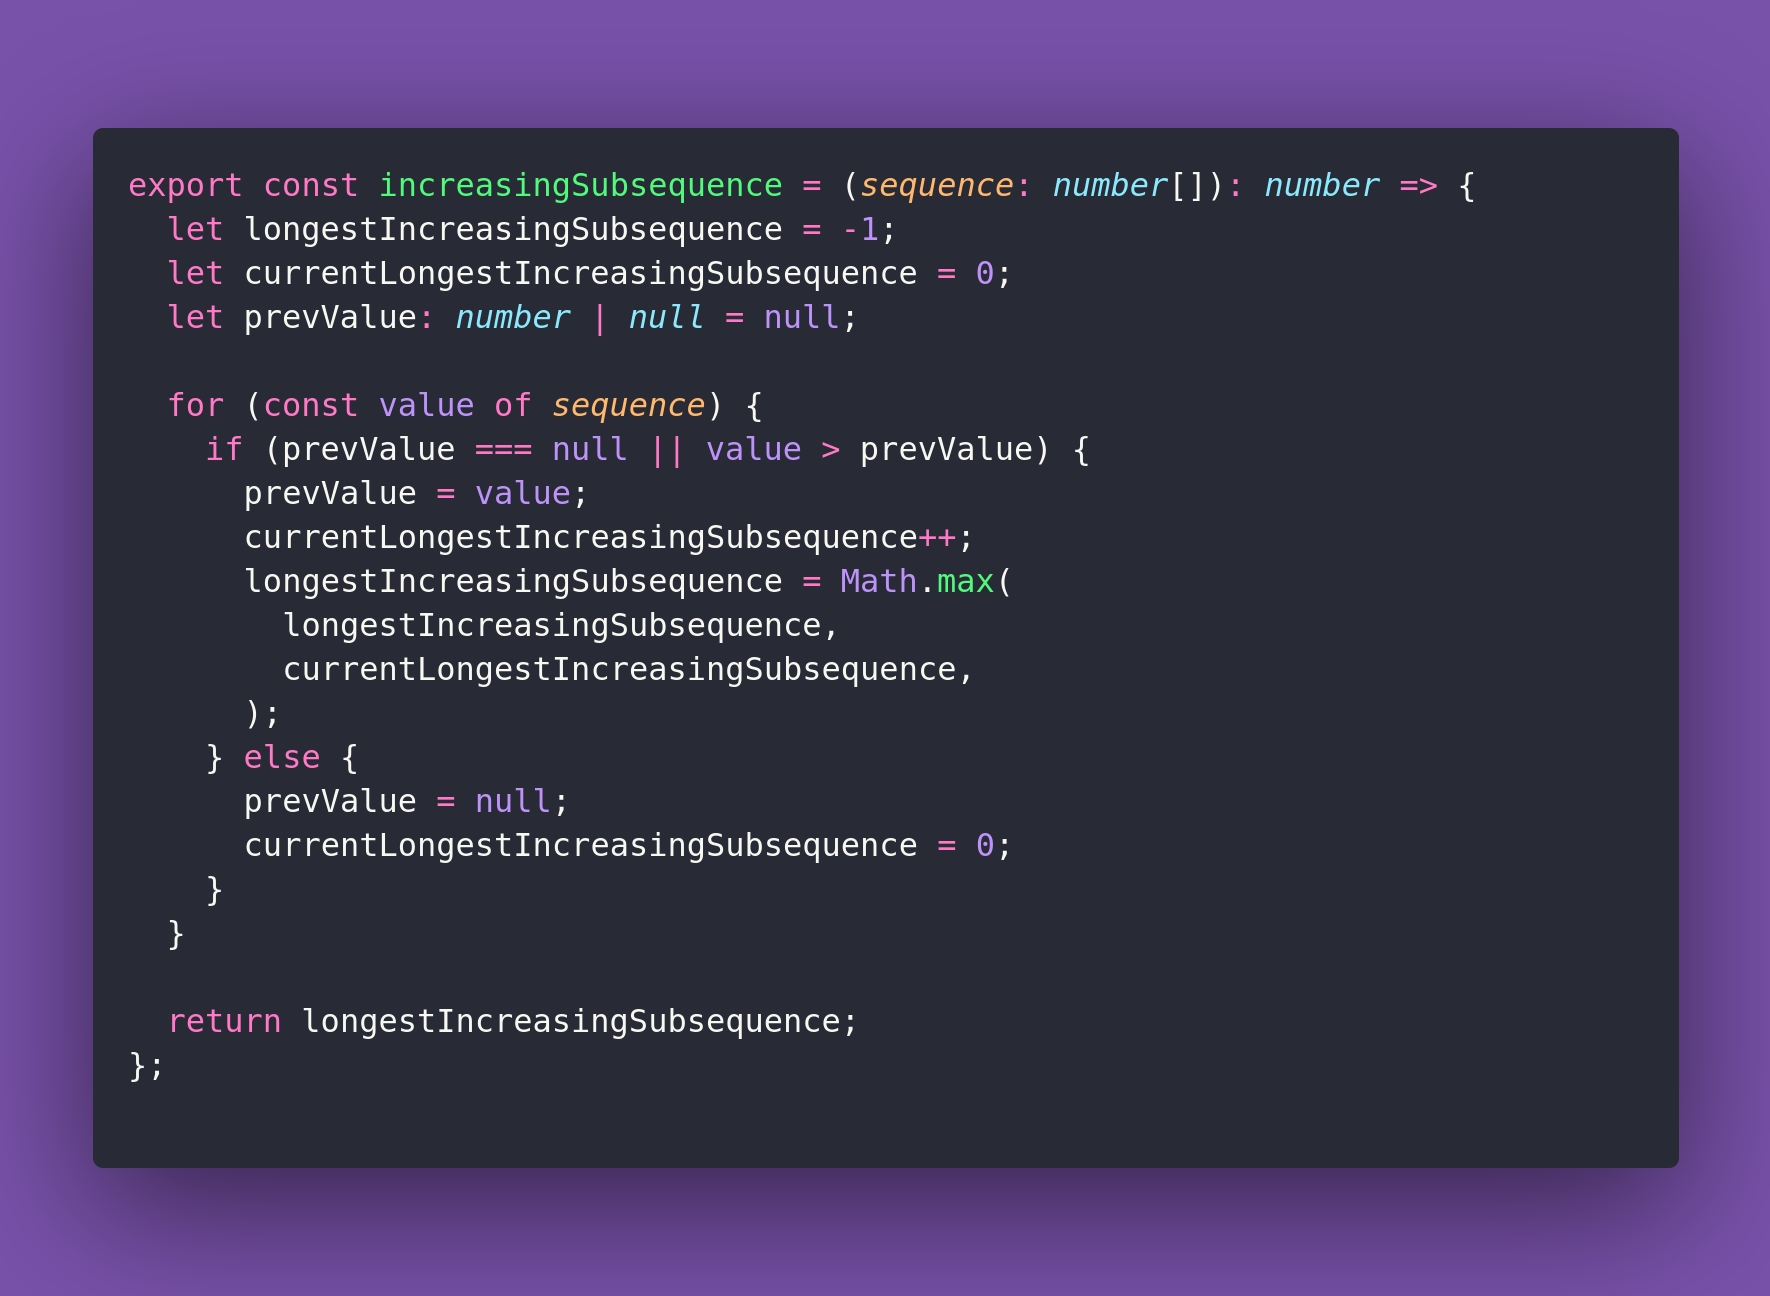
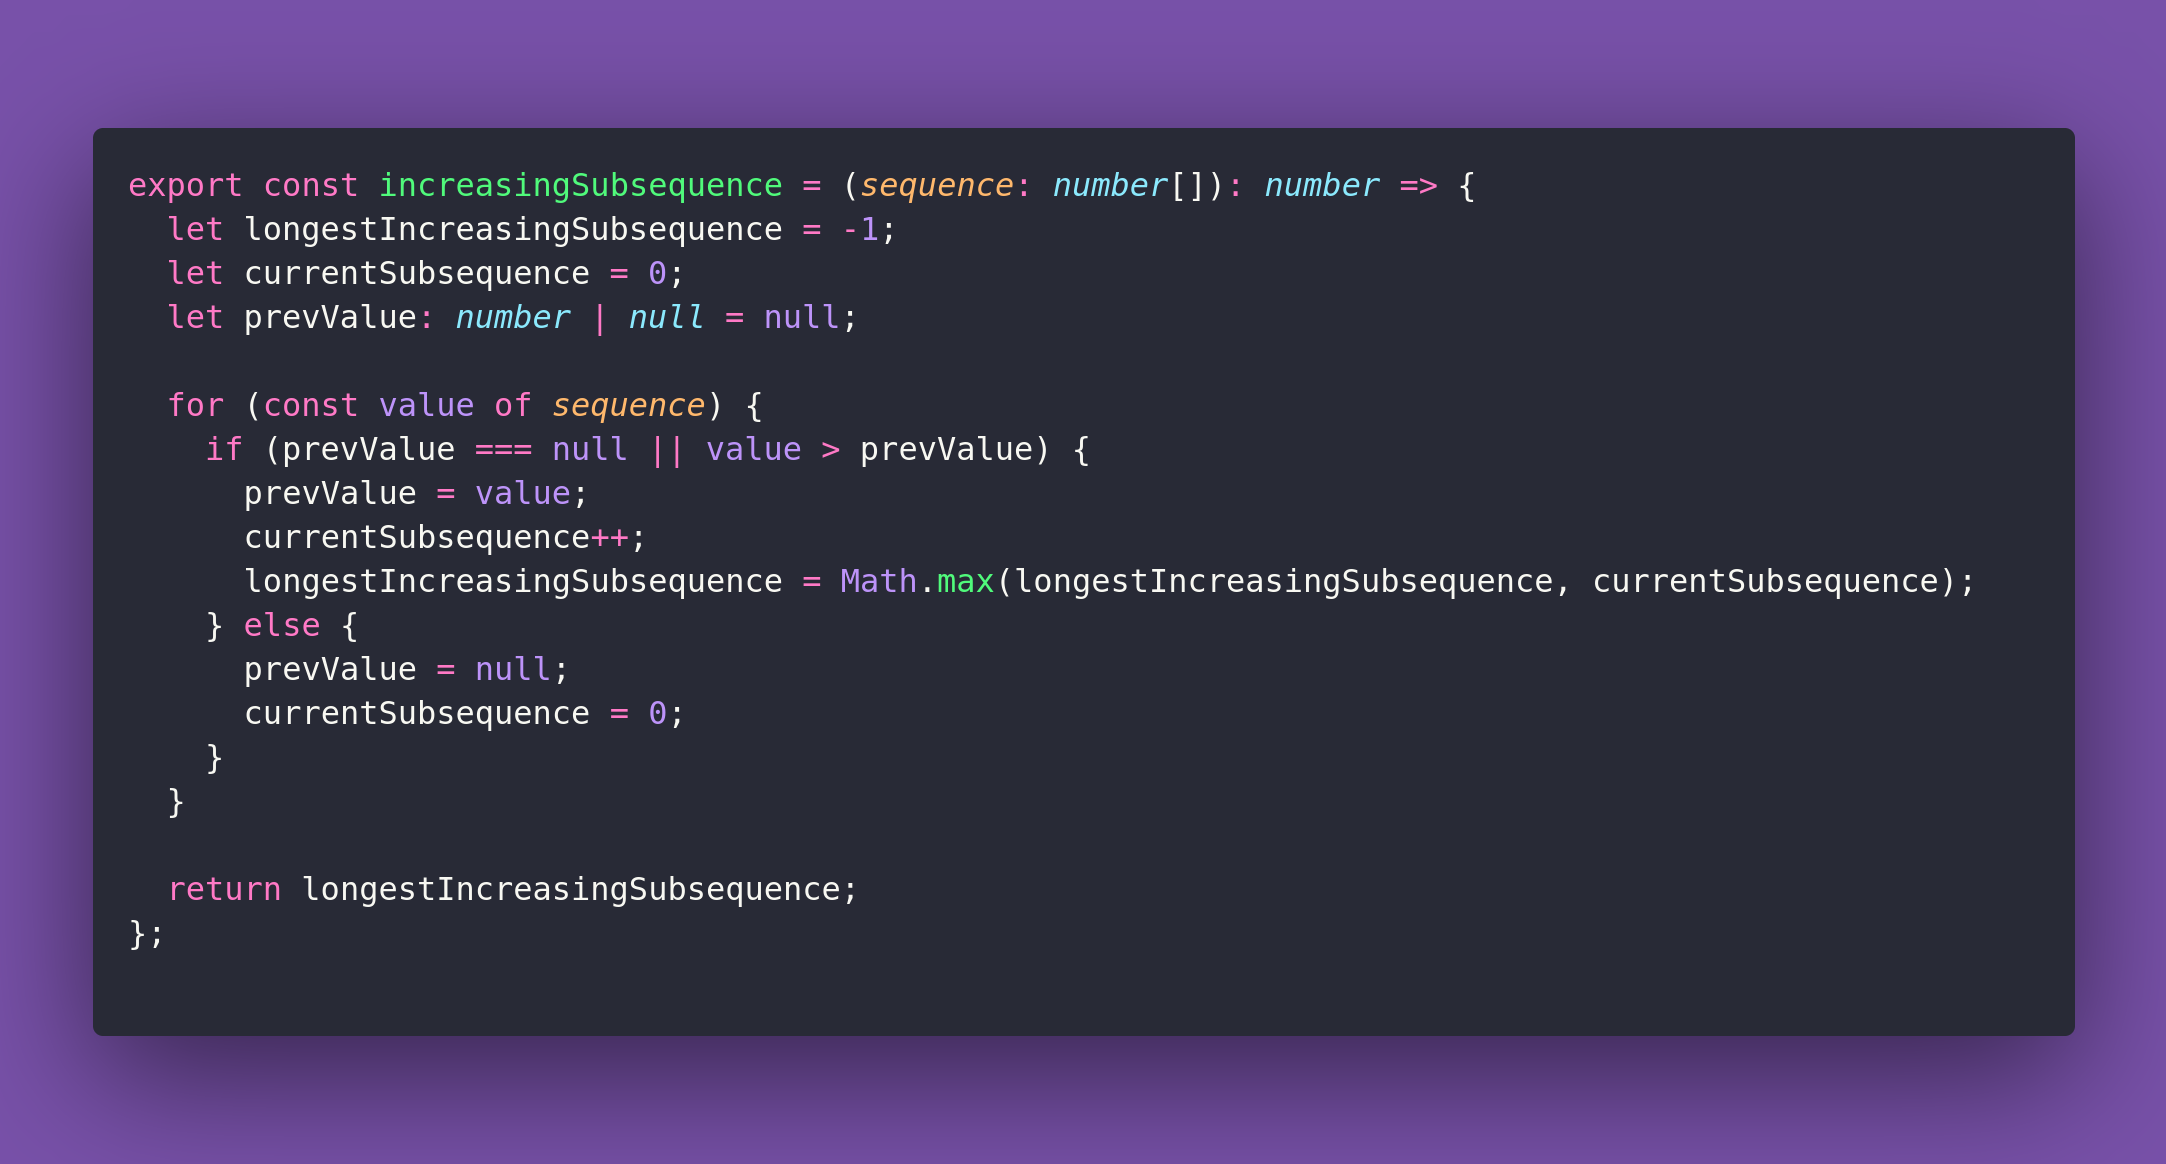
:pencil: Update variable names to be better

Changed region(s): [[0.0311, 0.0928, 0.9633, 0.9278], [0.7458, 0.4948, 0.9011, 0.5258]]

diff --git a/src/361-increasing-subsequence/increasing-subsequence.ts b/src/361-increasing-subsequence/increasing-subsequence.ts
@@ -1,19 +1,16 @@
 export const increasingSubsequence = (sequence: number[]): number => {
   let longestIncreasingSubsequence = -1;
-  let currentLongestIncreasingSubsequence = 0;
+  let currentSubsequence = 0;
   let prevValue: number | null = null;
 
   for (const value of sequence) {
     if (prevValue === null || value > prevValue) {
       prevValue = value;
-      currentLongestIncreasingSubsequence++;
-      longestIncreasingSubsequence = Math.max(
-        longestIncreasingSubsequence,
-        currentLongestIncreasingSubsequence,
-      );
+      currentSubsequence++;
+      longestIncreasingSubsequence = Math.max(longestIncreasingSubsequence, currentSubsequence);
     } else {
       prevValue = null;
-      currentLongestIncreasingSubsequence = 0;
+      currentSubsequence = 0;
     }
   }
 
